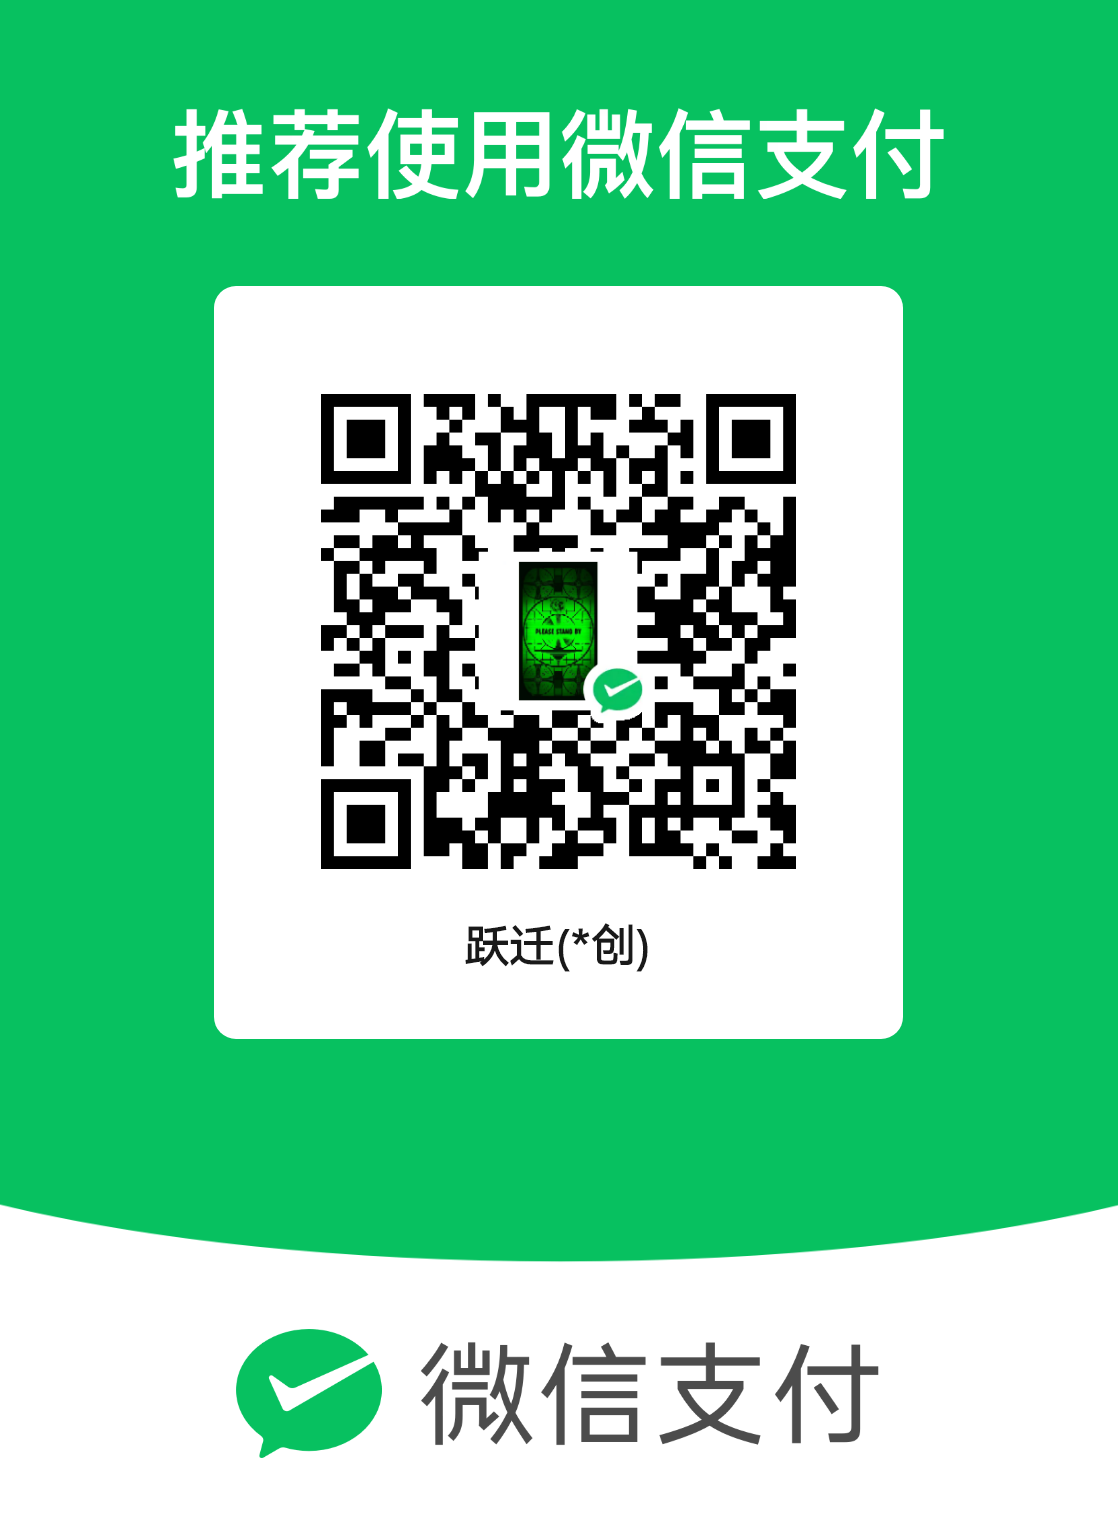
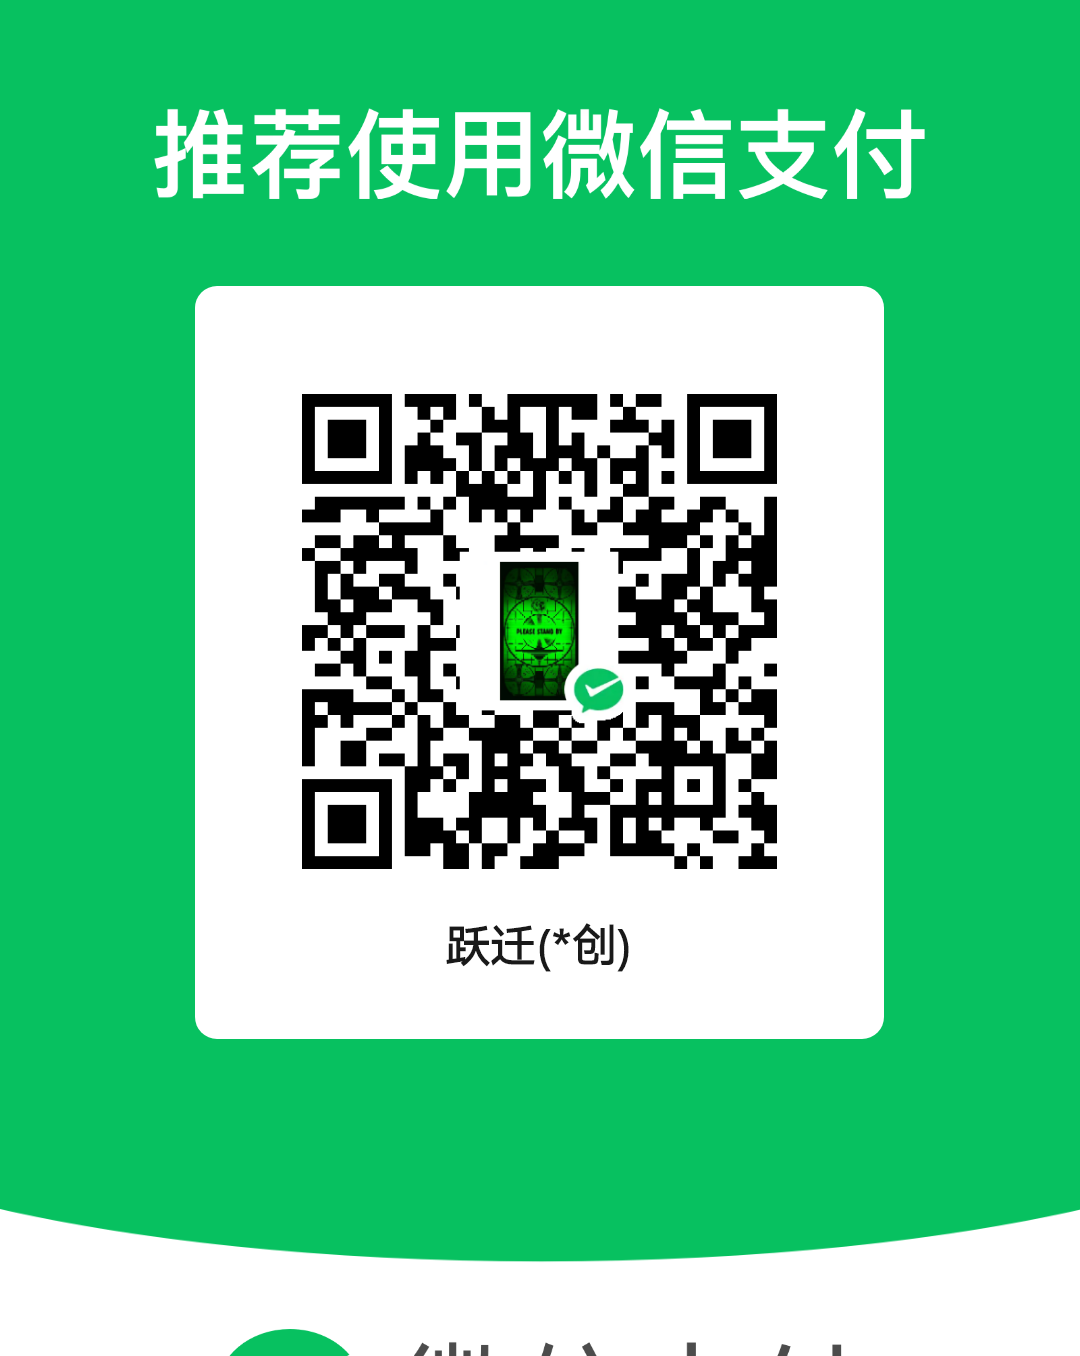
布局改善

diff --git a/index.html b/index.html
@@ -10,51 +10,50 @@
 body {
     font-family: 'Noto Sans SC', sans-serif;
     font-size: 16px;
-    color: #333;
+    color: #444;
     line-height: 1.8;
-    background-color: #f0f2f5;
+    background-color: #f4f7f6;
     -webkit-text-size-adjust: 100%;
 }
 .container {
-    max-width: 800px;
+    max-width: 960px;
     margin: 40px auto;
     padding: 40px;
     background: #fff;
-    border-radius: 12px;
-    box-shadow: 0 4px 12px rgba(0,0,0,0.08);
+    border-radius: 16px;
+    box-shadow: 0 8px 24px rgba(0,0,0,0.05);
 }
 .header {
     text-align: center;
-    color: #1a237e;
+    color: #2c3e50;
     font-weight: 700;
-    font-size: 2.5em;
-    margin-bottom: 20px;
+    font-size: 3em;
+    margin-bottom: 15px;
+}
+.subtitle {
+    text-align: center;
+    color: #7f8c8d;
+    margin-bottom: 40px;
 }
 h2 {
-    color: #3f51b5;
-    border-bottom: 2px solid #3f51b5;
+    color: #34495e;
+    border-bottom: 3px solid #3498db;
     padding-bottom: 10px;
-    margin-top: 30px;
-}
-h3 {
-    color: #5c6bc0;
-    margin-top: 20px;
+    margin-top: 40px;
+    margin-bottom: 20px;
 }
 a {
-    color: #303f9f;
+    color: #3498db;
     text-decoration: none;
     transition: color 0.3s;
 }
 a:hover {
-    color: #1a237e;
-    text-decoration: underline;
-}
-.responsive-img {
-    max-width: 100%;
-    height: auto;
-    border-radius: 8px;
+    color: #2980b9;
 }
 .service-list {
+    display: grid;
+    grid-template-columns: repeat(auto-fit, minmax(280px, 1fr));
+    gap: 20px;
     list-style-type: none;
     padding: 0;
     margin-top: 20px;
@@ -62,77 +61,92 @@ a:hover {
 .service-item {
     display: flex;
     align-items: center;
-    background: #f9f9fa;
-    margin-bottom: 10px;
-    padding: 15px;
-    border-radius: 8px;
-    border: 1px solid #e0e0e0;
+    background: #ffffff;
+    padding: 20px;
+    border-radius: 10px;
+    border: 1px solid #ecf0f1;
     transition: box-shadow 0.3s, transform 0.3s;
 }
 .service-item:hover {
-    box-shadow: 0 4px 8px rgba(0,0,0,0.1);
-    transform: translateY(-2px);
+    box-shadow: 0 6px 12px rgba(0,0,0,0.1);
+    transform: translateY(-3px);
 }
 .service-item img {
-    width: 60px;
+    width: 50px;
     height: auto;
-    vertical-align: middle;
     margin-left: 15px;
     border-radius: 4px;
+    transition: transform 0.3s ease-in-out; /* Add transition */
+}
+
+.service-item img:hover {
+    transform: scale(1.1); /* Zoom in on hover */
+}
+.pricing-table {
+    display: grid;
+    grid-template-columns: repeat(auto-fit, minmax(250px, 1fr));
+    gap: 30px;
+    margin-top: 30px;
+}
+.pricing-tier {
+    background: #ffffff;
+    padding: 30px;
+    border-radius: 10px;
+    border: 1px solid #ecf0f1;
+    text-align: center;
+    transition: box-shadow 0.3s, transform 0.3s;
+}
+.pricing-tier:hover {
+    box-shadow: 0 8px 16px rgba(0,0,0,0.1);
+    transform: translateY(-5px);
+}
+.pricing-tier h3 {
+    color: #3498db;
+    font-size: 1.5em;
+    margin-top: 0;
+}
+.pricing-tier .price {
+    font-size: 2.5em;
+    font-weight: 700;
+    color: #2c3e50;
+}
+.pricing-tier .price span {
+    font-size: 0.5em;
+    color: #7f8c8d;
 }
 .payment-info {
-    margin-top: 40px;
-    padding: 20px;
-    background: #f9f9fa;
-    border-radius: 8px;
+    margin-top: 50px;
+    padding: 30px;
+    background: #f8f9f9;
+    border-radius: 10px;
     text-align: center;
 }
 .payment-qr-codes {
     display: flex;
     justify-content: center;
-    gap: 20px;
+    gap: 30px;
     margin-top: 20px;
+    flex-wrap: wrap;
 }
 .payment-qr-codes img {
-    width: 200px;
+    width: 180px;
     border: 1px solid #ddd;
     padding: 5px;
     border-radius: 8px;
+    transition: transform 0.3s ease-in-out; /* Add transition */
 }
 
-/* Responsive adjustments */
+.payment-qr-codes img:hover {
+    transform: scale(1.05); /* Slightly zoom in on hover */
+}
+
 @media (max-width: 768px) {
     .container {
         margin: 20px;
         padding: 20px;
     }
     .header {
-        font-size: 2em;
-    }
-    .payment-qr-codes {
-        flex-direction: column;
-        align-items: center;
-    }
-}
-
-@media (max-width: 480px) {
-    body {
-        font-size: 14px;
-    }
-    .container {
-        margin: 10px;
-        padding: 15px;
-    }
-    .header {
-        font-size: 1.8em;
-    }
-    .service-item {
-        flex-direction: column;
-        align-items: flex-start;
-    }
-    .service-item img {
-        margin-left: 0;
-        margin-top: 10px;
+        font-size: 2.2em;
     }
 }
 </style>
@@ -140,11 +154,25 @@ a:hover {
 <body>
 <div class="container">
     <h1 class="header">跃迁思维</h1>
-    <p>是以提供人生跃迁相关工具资源的综合性平台。</p>
+    <p class="subtitle">一个提供人生跃迁工具与资源的综合性平台</p>
     
-    <h2>跃迁思维会员订阅服务</h2>
-    
-    <h3>内容：</h3>
+    <h2>会员服务</h2>
+    <div class="pricing-table">
+        <div class="pricing-tier">
+            <h3>普通会员</h3>
+            <div class="price">99<span>元/年</span></div>
+        </div>
+        <div class="pricing-tier">
+            <h3>高级会员</h3>
+            <div class="price">999<span>元/年</span></div>
+        </div>
+        <div class="pricing-tier">
+            <h3>尊享会员</h3>
+            <div class="price">9999<span>元/年</span></div>
+        </div>
+    </div>
+
+    <h2>核心工具</h2>
     <ul class="service-list">
         <li class="service-item">
             目标管理系统
@@ -153,10 +181,13 @@ a:hover {
             </a>
         </li>
         <li class="service-item">
-            跃迁笔记
+            跃迁笔记 (Android)
             <a href="跃迁笔记-跃迁思维出品-android版本.jpg" data-lightbox="gallery" data-title="跃迁笔记 Android 版本">
                 <img src="跃迁笔记-跃迁思维出品-android版本.jpg" alt="跃迁笔记 Android 版本">
             </a>
+        </li>
+        <li class="service-item">
+            跃迁笔记 (Windows)
             <a href="跃迁笔记-跃迁思维出品-windows版本.png" data-lightbox="gallery" data-title="跃迁笔记 Windows 版本">
                 <img src="跃迁笔记-跃迁思维出品-windows版本.png" alt="跃迁笔记 Windows 版本">
             </a>
@@ -185,35 +216,31 @@ a:hover {
                 <img src="%E6%B4%9E%E8%A7%81.png" alt="洞见">
             </a>
         </li>
+        <li class="service-item">我的房间 (<a href="https://tranquil-cobbler-6f814a.netlify.app/private/%E6%88%91%E7%9A%84%E6%88%BF%E9%97%B4" target="_blank">访问</a>)</li>
+    </ul>
+
+    <h2>核心理念</h2>
+    <ul class="service-list">
         <li class="service-item">环境：旨在提供成长的优良环境</li>
         <li class="service-item">社交：旨在连接长久的社交关系</li>
         <li class="service-item">传承：旨在让经验和观念在一代代人真正地传承下去</li>
         <li class="service-item">远见：旨在让人看见未来的可能</li>
-        <li class="service-item"><a href="https://tranquil-cobbler-6f814a.netlify.app/private/%E6%88%91%E7%9A%84%E6%88%BF%E9%97%B4" target="_blank">我的房间</a> (密码: 1)</li>
     </ul>
     
     <div class="payment-info">
-        <h3>会员费用：</h3>
-        <ul>
-            <li><strong>普通会员：</strong>99元/年</li>
-            <li><strong>高级会员：</strong>999元/年</li>
-            <li><strong>尊享会员：</strong>9999元/年</li>
-        </ul>
-        
+        <h2>联系与支付</h2>
         <p>
             <strong>微信：</strong>qjumplife<br>
             <strong>邮箱：</strong><a href="mailto:qjumplife@outlook.com">qjumplife@outlook.com</a><br>
-            <strong>网址：</strong><a href="https://harmonious-otter-452dc3.netlify.app">harmonious-otter-452dc3.netlify.app</a>
+            <strong>备用网址：</strong><a href="https://harmonious-otter-452dc3.netlify.app">harmonious-otter-452dc3.netlify.app</a>
         </p>
-        
-        <p>付款后微信或邮箱联系我，可能回复不及时，敬请谅解。</p>
-
+        <p>付款后请通过微信或邮箱联系我开通权限，可能回复不及时，敬请谅解。</p>
         <div class="payment-qr-codes">
-            <a href="w.png" data-lightbox="gallery" data-title="微信二维码">
-                <img src="w.png" class="responsive-img">
+            <a href="w.png" data-lightbox="gallery" data-title="微信支付">
+                <img src="w.png" alt="微信支付">
             </a>
-            <a href="z.jpg" data-lightbox="gallery" data-title="支付宝二维码">
-                <img src="z.jpg" class="responsive-img">
+            <a href="z.jpg" data-lightbox="gallery" data-title="支付宝支付">
+                <img src="z.jpg" alt="支付宝支付">
             </a>
         </div>
     </div>
